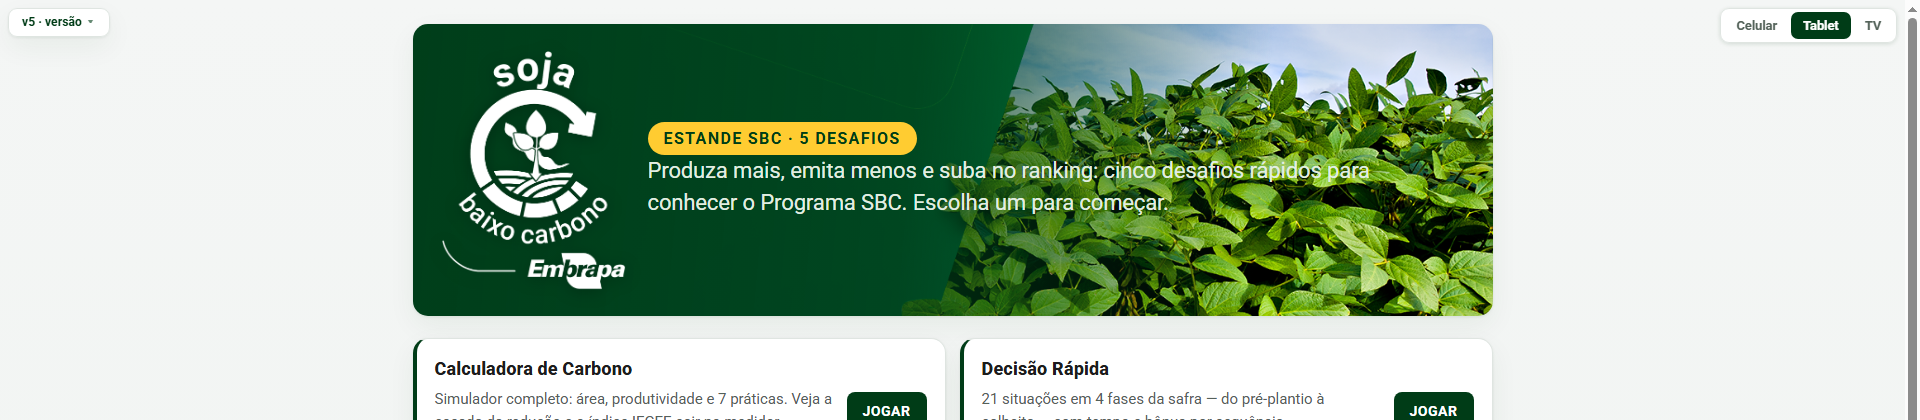
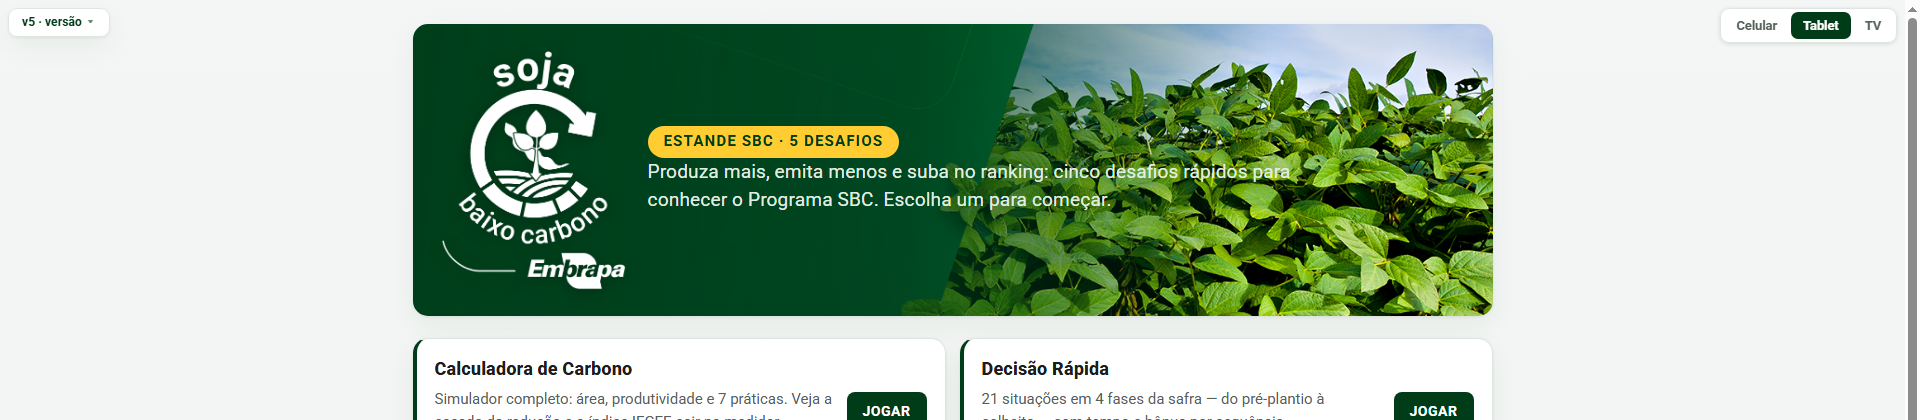
capa: texto ao lado do selo menor (1.28→1.14em) e fonte Roboto na placa 3D da maquete

Changed region(s): [[0.3125, 0.2786, 0.7188, 0.5262]]

diff --git a/index.html b/index.html
@@ -35,7 +35,7 @@
         .capa .tag {
             display: inline-block;
             font-weight: 700;
-            font-size: 0.95em;
+            font-size: 0.88em;
             letter-spacing: 0.08em;
             text-transform: uppercase;
             color: var(--verde-escuro);
@@ -48,7 +48,7 @@
             margin: 0;
             max-width: 60ch;
             color: #e2eee2;
-            font-size: 1.28em;
+            font-size: 1.14em;
             line-height: 1.45;
         }
 

diff --git a/maquete3d.v5.js b/maquete3d.v5.js
@@ -1533,7 +1533,7 @@ var Maquete3D = (function () {
             cx.lineWidth = 10;
             cx.strokeRect(5, 5, 790, 170);
             cx.fillStyle = "#3e2b18";
-            cx.font = "bold 44px Arial";
+            cx.font = "bold 44px Roboto, Arial";
             cx.textAlign = "center";
             cx.textBaseline = "middle";
             cx.fillText(texto, 400, 90);
